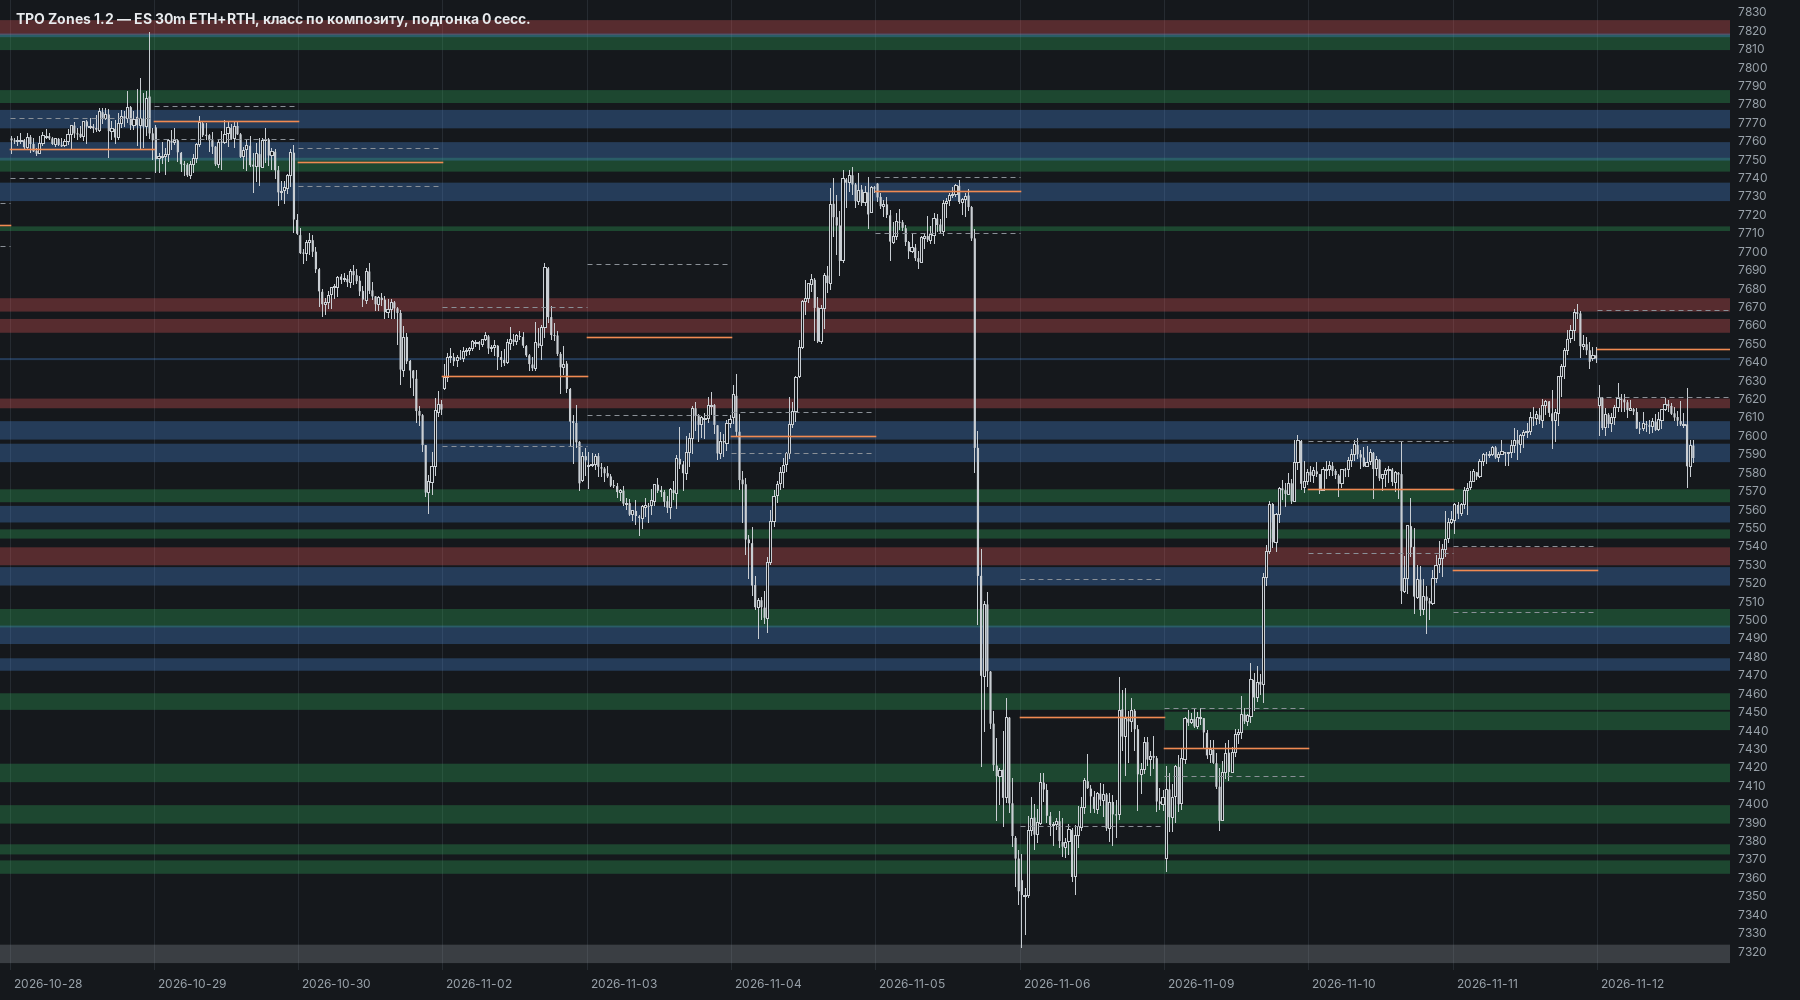
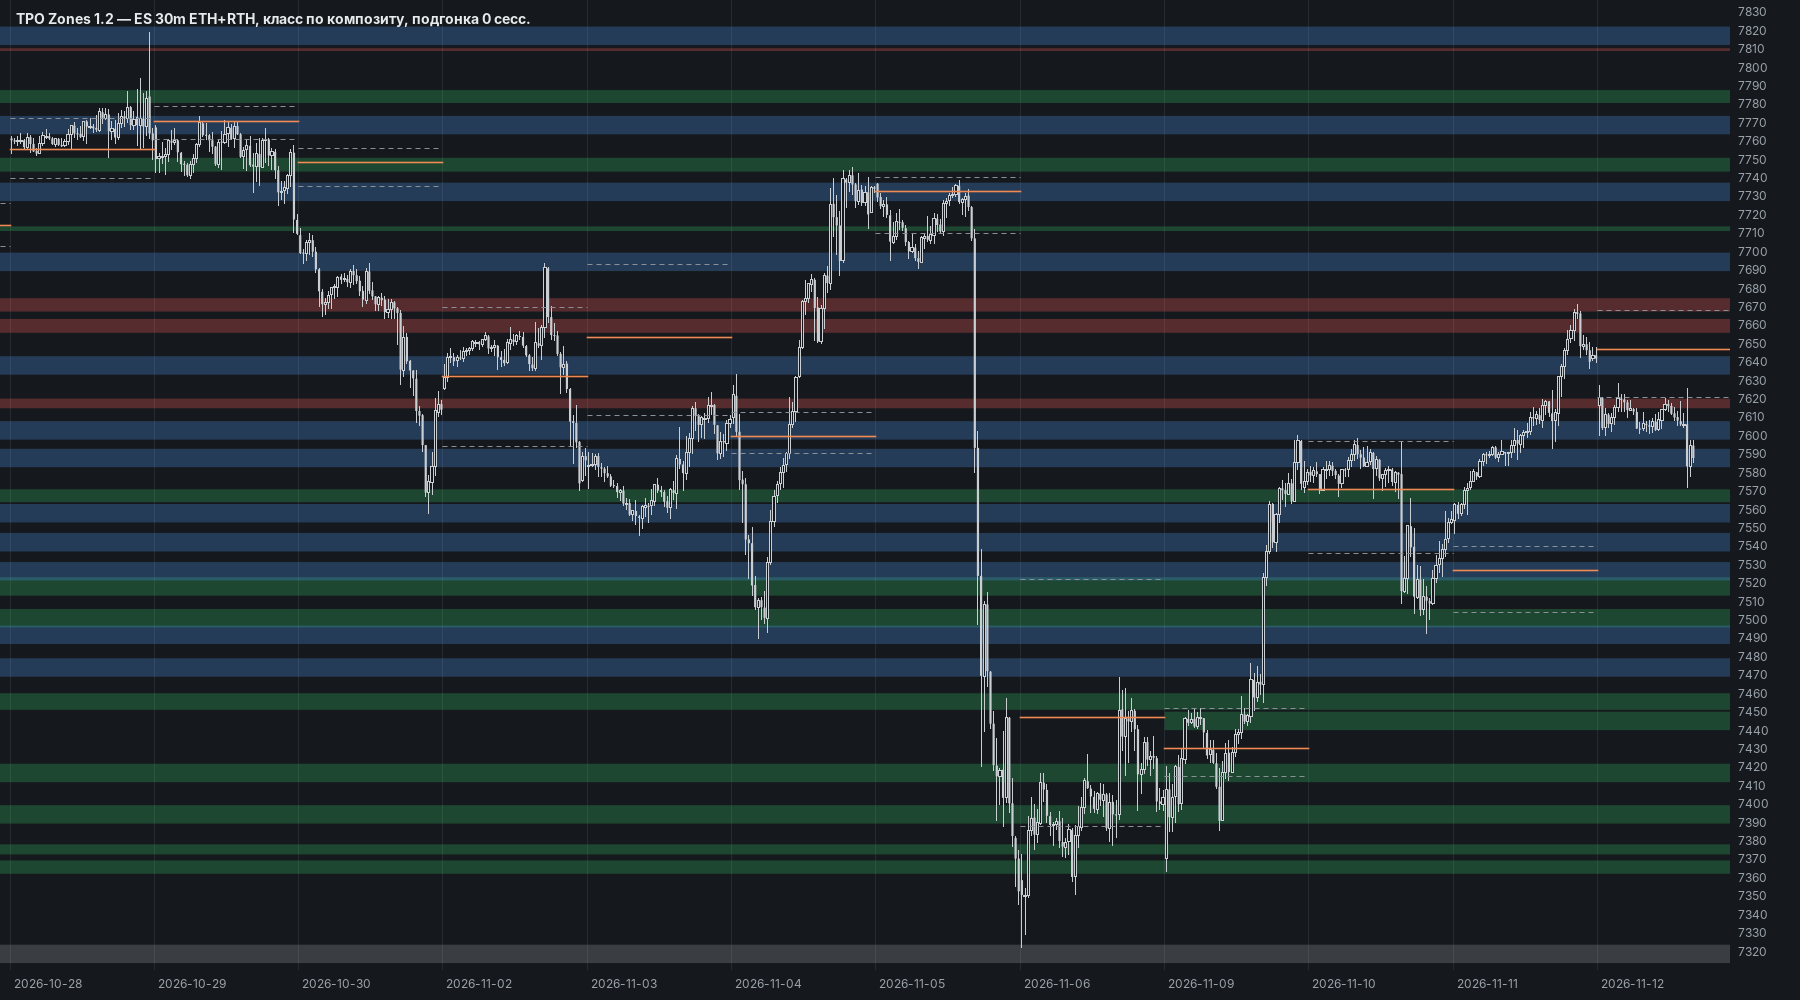
Fix 1.2: session-profile core keeps the composite band width
The core was the stretch where at least half of the days' HVN bands met,
which could be a single tick (composite 2026-07-10..16: 0.25 points). Now
the core keeps the width of the composite HVN band (capped at 10 points)
and the days' bands only decide where it sits: the window they cover most,
ties to more composite TPO, then closer to the POC.

Claude-Session: https://claude.ai/code/session_01PTkoju45i5ZphCgSn4vnkL

diff --git a/motivewave/src/patterns/zones/ZoneEngine.java b/motivewave/src/patterns/zones/ZoneEngine.java
@@ -503,11 +503,13 @@ public final class ZoneEngine {
             core.k = K_CORE; core.av = endDay; core.src = "core";
             int[] band = p.coreByVa ? new int[]{va[1], va[2]} : hvnBand(cp, va[0], p.hvnShare);
             int poc = va[0];
+            int cap = (int) Math.round(p.zoneMaxWidthPts / p.tick);
             if (p.coreFromSessions && !p.coreByVa) {
-                int[] agree = sessionAgreement(cand, cp);
-                if (agree != null) { band = new int[]{agree[0], agree[1]}; poc = agree[2]; }
-            }
-            band = narrow(cp, band, poc, (int) Math.round(p.zoneMaxWidthPts / p.tick));
+                // ширина — от HVN-полосы композита (≤ лимита), место — где окно накрывают дневные HVN-полосы
+                int w = band[1] - band[0];
+                if (cap > 0) w = Math.min(w, cap);
+                band = sessionWindow(cand, cp, w);
+            } else band = narrow(cp, band, poc, cap);
             core.lo = band[0] * p.tick; core.hi = band[1] * p.tick;
             c.core = core;
             comps.add(c);
@@ -524,28 +526,27 @@ public final class ZoneEngine {
         }
     }
 
-    /** Ядро по сессионным профилям: строки, накрытые HVN-полосами не меньше половины дней композита;
-     *  из таких участков — с наибольшим TPO композита. {lo, hi, строка максимума TPO} в тиках или null. */
-    static int[] sessionAgreement(List<Day> days, Profile cp) {
-        int n = cp.counts.length, need = (days.size() + 1) / 2;
+    /** Ядро по сессионным профилям: окно шириной w тиков внутри диапазона композита, которое
+     *  дневные HVN-полосы его дней накрывают больше всего (сумма по строкам: сколько дней накрывает
+     *  строку); при равенстве — с наибольшим TPO композита, затем ближе к POC композита. */
+    static int[] sessionWindow(List<Day> days, Profile cp, int w) {
+        int n = cp.counts.length;
+        w = Math.min(w, n - 1);
         int[] cov = new int[n + 1];
-        for (Day d : days) { cov[Math.max(0, d.bandLo - cp.low)]++; cov[Math.min(n, d.bandHi - cp.low + 1)]--; }
-        int[] best = null; long bestSum = -1;
-        int acc = 0, start = -1; long sum = 0;
-        for (int i = 0; i <= n; i++) {
-            acc += i < n ? cov[i] : 0;
-            boolean in = i < n && acc >= need;
-            if (in) { if (start < 0) { start = i; sum = 0; } sum += cp.counts[i]; }
-            else if (start >= 0) {
-                if (sum > bestSum) {
-                    int mx = start;
-                    for (int t = start; t < i; t++) if (cp.counts[t] > cp.counts[mx]) mx = t;
-                    best = new int[]{cp.low + start, cp.low + i - 1, cp.low + mx}; bestSum = sum;
-                }
-                start = -1;
-            }
+        for (Day d : days) {
+            int a = Math.max(0, d.bandLo - cp.low), b = Math.min(n - 1, d.bandHi - cp.low);
+            if (a <= b) { cov[a]++; cov[b + 1]--; }
         }
-        return best;
+        for (int i = 1; i <= n; i++) cov[i] += cov[i - 1];
+        int poc = pocIndex(cp);
+        long bestC = -1, bestT = -1; int bestLo = 0; double bestD = Double.MAX_VALUE;
+        for (int lo = 0; lo + w < n; lo++) {
+            long c = 0, t = 0;
+            for (int i = lo; i <= lo + w; i++) { c += cov[i]; t += cp.counts[i]; }
+            double d = Math.abs(lo + w / 2.0 - poc);
+            if (c > bestC || (c == bestC && (t > bestT || (t == bestT && d < bestD)))) { bestC = c; bestT = t; bestLo = lo; bestD = d; }
+        }
+        return new int[]{cp.low + bestLo, cp.low + bestLo + w};
     }
 
     /** Полоса [lo, hi] шире maxW тиков → окно шириной maxW внутри неё, содержащее POC, с максимумом TPO

diff --git a/motivewave/README.md b/motivewave/README.md
@@ -19,6 +19,7 @@
 
 - **1.2** — класс зон по положению в TPO-композите (ядро по сессионным профилям — проторговка,
   выше — сопротивление, ниже — поддержка, вне композитов — серые), склейка соседних зон одного вида,
+  ядро шириной HVN-полосы композита (раньше по совпадению сессий могло выйти в 1 тик),
   зоны не шире 10 п., заливка 30% без линий границ. Режим «по отторжениям» из 1.1 — галочкой.
 - **1.1** — порт страницы карты зон ветки `Zones-1.1`: класс HVN-зон по отторжениям (≥ 60%).
 
@@ -41,14 +42,15 @@
   зона из серого источника, лежащая на первородной, тоже;
 - зоны вне всех композитов — серые, пока их не накроет композит.
 
-**Ядро по сессионным профилям** (по умолчанию): композит раскладывается на дни, ядро —
-участок, накрытый HVN-полосами не меньше половины дней композита (там, где сессии совпадают),
-с наибольшим TPO; если такого нет — HVN-полоса композита. Медиана ширины ядра 7.75 п. против 10.
+**Ядро по сессионным профилям** (по умолчанию): ширина ядра — от HVN-полосы композита
+(не больше 10 п.), а место — по дням композита: окно ставится туда, где его больше всего
+накрывают дневные HVN-полосы (при равенстве — больше TPO композита, ближе к POC). Ядро уже
+полосы композита бывает только у композитов с узкой полосой (5 из 173, все 2021–2023).
 
 **Соседи склеиваются:** новое ядро, касающееся существующего (зазор ≤ 0.25 п.), — его
 подтверждение; зона поддержки / сопротивления вплотную к более старой видимой зоне того же
 вида не рисуется. Сплошных одноцветных блоков шире 10 п. на последних 250 сессиях нет;
-зон на сессию 56, пересекающихся пар 6.4. Подгонка по телам свечей в этом режиме зону
+зон на сессию 54, пересекающихся пар 3.1. Подгонка по телам свечей в этом режиме зону
 не расширяет (≤ 10 п.), но добавляет зон и пересечений (11 на сессию), поэтому выключена.
 
 **Ширина зон — не больше 10 п.** (вкладка «Расчёт», 0 — без лимита). HVN-полоса дня и ядро
